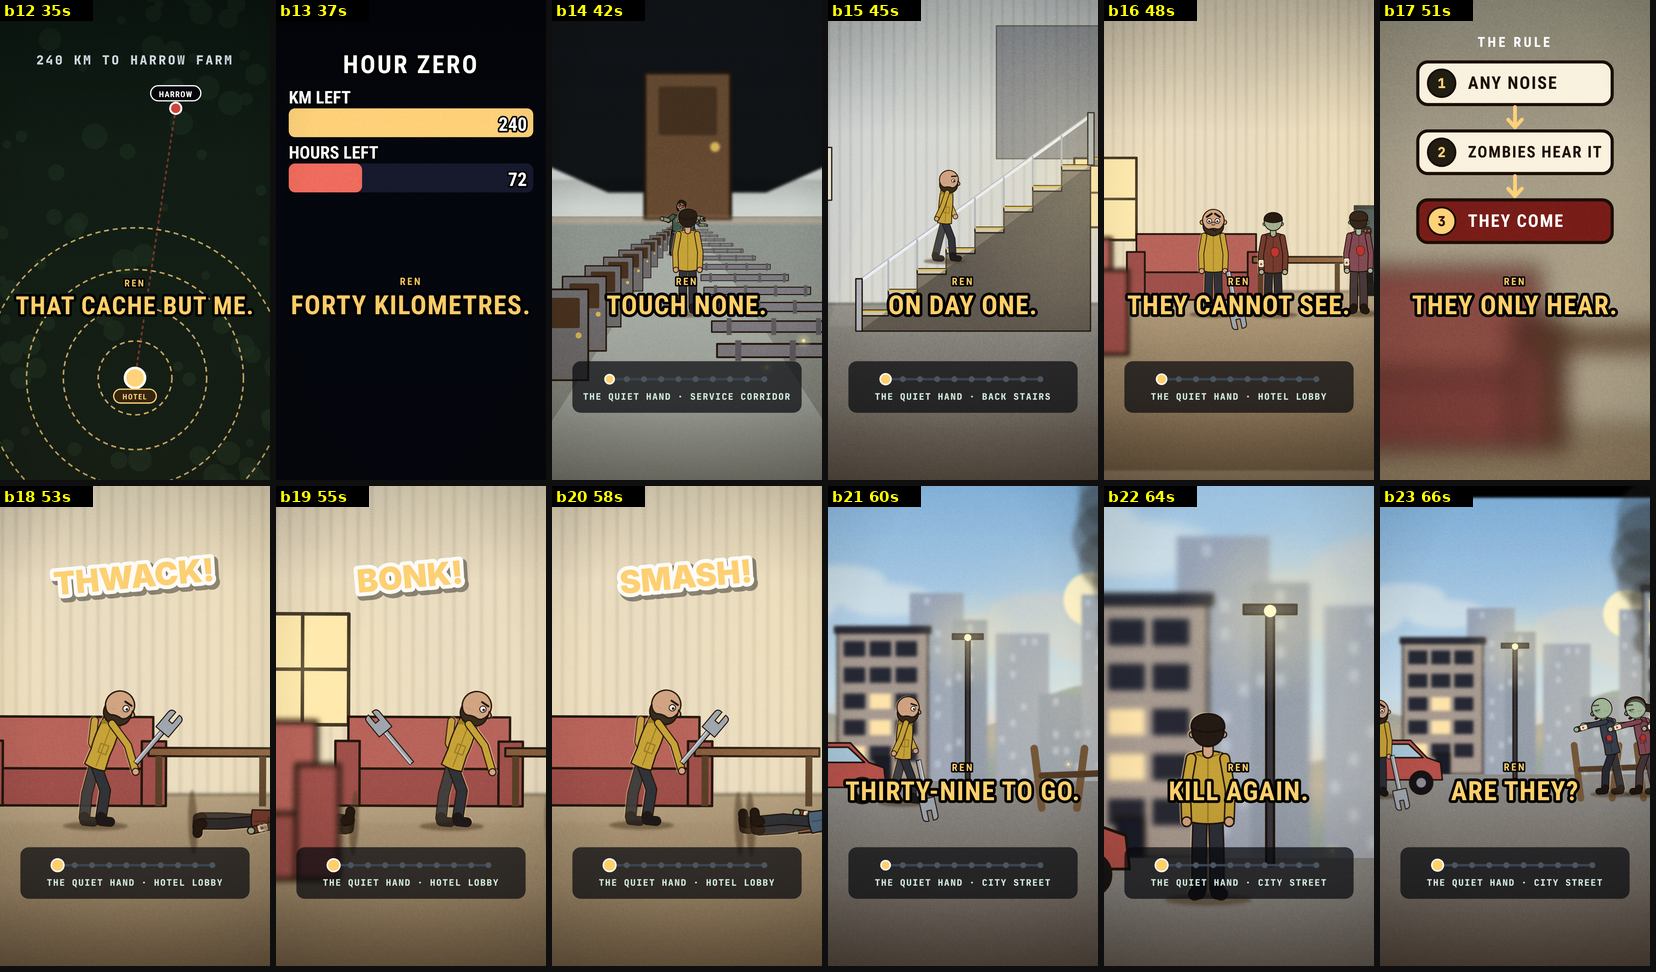
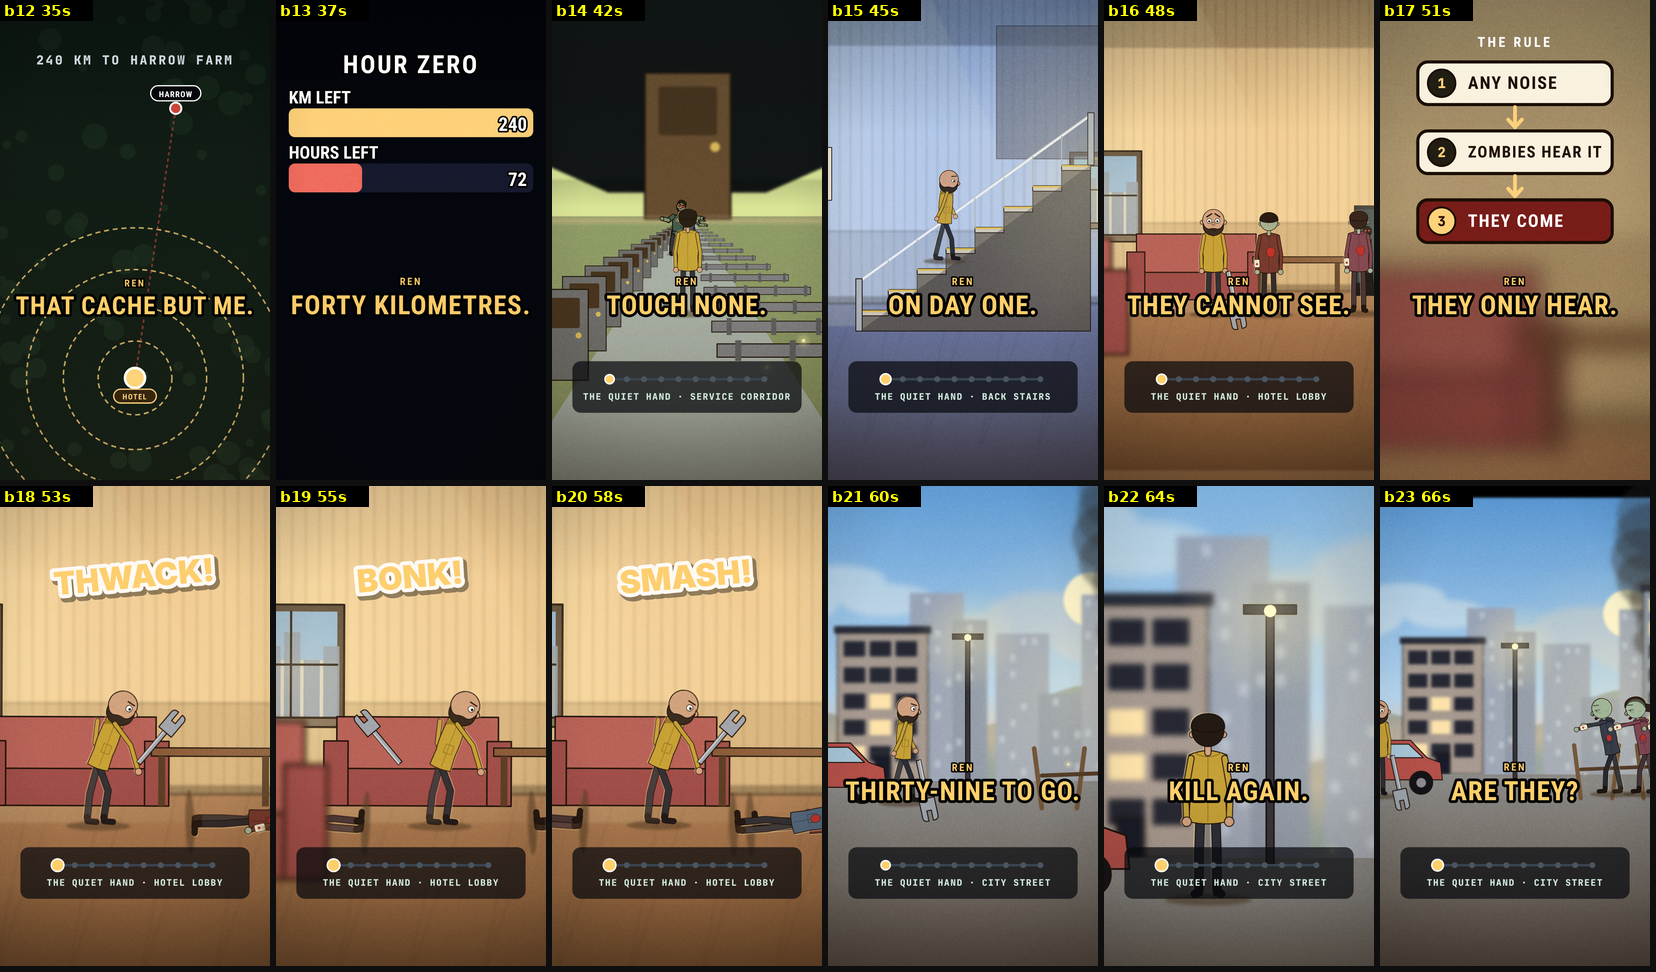
Ep1: fight + zombie sound design (swing, flesh/metal hit, zombie moans and pained groans, body fall), thinner line work, richer rooms, fight-sound audit

diff --git a/studio/long/world9.js b/studio/long/world9.js
@@ -21,7 +21,7 @@ const IT={
  car:(g,o)=>{const c=o.c||'#9a3a3a';P(g,'M-110,-30 L-100,-70 L-60,-76 L-34,-112 L50,-112 L84,-76 L112,-66 L116,-30Z',c,S());P(g,'M-28,-104 L-52,-76 L-10,-76 L-10,-104Z M2,-104 L2,-76 L76,-76 L46,-104Z','#9fc3d8',S({'stroke-width':2.4}));for(const x of[-68,72]){C(g,x,-24,24,'#1a1a20',S());C(g,x,-24,10,'#8a8a94')}},
  sign:(g,o)=>{R(g,-5,-150,10,150,'#4a3a2a');R(g,-60,-190,120,64,o.c||'#e8e2cf',S());const t=T(g,0,-148,o.label||'',26,INK,{'font-family':RCF,'font-weight':700});fitText(t,104)},
  door:(g,o)=>{R(g,-44,-150,88,150,o.c||'#6a4a30',S());R(g,-30,-136,60,50,'#4a3220',{rx:3});C(g,28,-74,5,'#d9b24a')},
- window:(g,o)=>{R(g,-40,-96,80,96,o.lit===false?'#1d2233':GL,S());L(g,0,-96,0,0,INK,3);L(g,-40,-48,40,-48,INK,3);if(o.lit!==false)C(g,0,-48,110,'url(#gLamp)',{opacity:.35})},
+ window:(g,o)=>{const lit=o.lit!==false,day=W.time==='day';R(g,-46,-104,92,104,'#5a4a3a',S());R(g,-40,-98,80,92,lit?(day?'#a8cfee':GL):'#1d2233');if(lit&&day){R(g,-40,-98,80,50,'#8fbbe0');R(g,-40,-56,80,50,'#e8d2b0',{opacity:.7});for(let i=0;i<5;i++)R(g,-40+i*17,-56-(i%3)*12,14,50+(i%3)*12,'#8d9db4',{opacity:.9});R(g,-40,-98,80,92,'url(#gWallShade)',{opacity:.12})}L(g,0,-98,0,-6,INK,3);L(g,-40,-52,40,-52,INK,3);R(g,-52,-6,104,8,'#7a6a58',S());if(lit)C(g,0,-48,o.glow||130,'url(#gLamp)',{opacity:day?.28:.35})},
  fence:(g,o)=>{const w=o.w||300;for(let x=0;x<=w;x+=50)R(g,x-w/2-4,-76,8,76,'#6a5438',S({'stroke-width':2}));L(g,-w/2,-58,w/2,-58,'#7a6244',6);L(g,-w/2,-30,w/2,-30,'#7a6244',6)},
  shelf:(g,o)=>{const w=o.w||200;R(g,-w/2,-220,w,220,'#5a4a38',S());for(let r=0;r<3;r++){L(g,-w/2,-150+r*-0,w/2,-150,'#3a2c1e',3);}L(g,-w/2,-146,w/2,-146,'#3a2c1e',5);L(g,-w/2,-74,w/2,-74,'#3a2c1e',5);for(let i=0;i<5;i++){R(g,-w/2+12+i*(w-24)/5,-146-30,(w-24)/5-6,30,['#c0504a','#4a7ab0','#d9b24a','#5a9a5a','#9a6ab0'][i%5],S({'stroke-width':1.8}));R(g,-w/2+12+i*(w-24)/5,-74-30,(w-24)/5-6,30,['#d9b24a','#c0504a','#5a9a5a','#4a7ab0','#9a6ab0'][i%5],S({'stroke-width':1.8}))}},
  table:(g,o)=>{const w=o.w||180;R(g,-w/2,-84,w,12,o.c||'#7a5a38',S());R(g,-w/2+10,-72,10,72,'#5a4028');R(g,w/2-20,-72,10,72,'#5a4028')},
@@ -71,7 +71,9 @@ const IT={
  barricade:(g,o)=>{const w=o.w||260;for(let i=0;i<5;i++){const a=(i%2?1:-1)*14;L(g,-w/2+i*w/4,0,-w/2+i*w/4+a,-110,'#7a5a38',14)}L(g,-w/2,-60,w/2,-70,'#5a4028',12)}
 };
 Object.keys(IT).forEach(k=>{if(!PROP[k])PROP[k]=(g,o)=>IT[k](g,o)});
-function item(g,it){const f=IT[it.t];if(!f)return;const q=G(g,{transform:`translate(${it.x||0} ${it.y==null?600:it.y}) scale(${(it.flip?-1:1)*(it.s||1)} ${it.s||1})`});f(q,it);return q}
+function thin(q){const k=W.line;if(!k)return q;q.querySelectorAll('[stroke-width]').forEach(e=>{const v=parseFloat(e.getAttribute('stroke-width'));if(v>0)e.setAttribute('stroke-width',(v*k).toFixed(2))});return q}
+window.__thin=thin;
+function item(g,it){const f=IT[it.t];if(!f)return;const q=G(g,{transform:`translate(${it.x||0} ${it.y==null?600:it.y}) scale(${(it.flip?-1:1)*(it.s||1)} ${it.s||1})`});f(q,it);return thin(q)}
 const P_=W.pal||{};
 function skyDraw(f,L){const sk=P_.sky||['#3d3a6e','#c2677a','#f1a477'];const id='gW_'+W.id;document.getElementById('defs').insertAdjacentHTML('beforeend',`<linearGradient id="${id}" x1="0" y1="0" x2="0" y2="1"><stop offset="0" stop-color="${sk[0]}"/><stop offset=".55" stop-color="${sk[1]}"/><stop offset="1" stop-color="${sk[2]}"/></linearGradient>`);
  R(f,-200,-100,1680,900,`url(#${id})`);if(W.time==='night'||W.time==='dusk'||W.stars)fStars(f,40,230);if(W.moon!==false&&W.time!=='day')fMoon(f,L.moonx||930,L.moony||130);
@@ -81,7 +83,8 @@ function lanePos(vpx,vpy,gy){return {x:(X,z)=>vpx+X/z,y:z=>vpy+(gy-vpy)/z}}
 LOC['w_'+W.id]=(Z,p)=>{FLK.length=0;const LC=(W.locs||{})[p.v||Object.keys(W.locs)[0]]||{};const f=G(Z.far),m=G(Z.mid),n=G(Z.near);const upd=[];const kind=LC.kind||'out';
  const layers=[G(f),G(m),G(n)];
  if(kind==='in'){R(f,-200,-700,1680,2400,LC.wall||P_.wall||'#3a3530');for(let i=0;i<64;i++)R(f,i*24-60,-700,2,2400,'rgba(0,0,0,.18)');R(f,-200,590,1680,900,LC.floor||P_.floor||'#2a2420');R(f,-200,590,1680,420,'url(#gGroundShade)',{opacity:.8});L(f,-200,590,1480,590,'rgba(0,0,0,.4)',4);
-  if(LC.light!==false)P(f,'M520,-100 L760,-100 L980,640 L300,640Z','url(#gCone)',{opacity:.12});R(f,-200,-100,1680,900,'url(#gWallShade)',{opacity:.8});A(f,{style:'filter:blur(2.4px)'})}
+  R(f,-200,430,1680,160,LC.wain||'rgba(0,0,0,.10)');L(f,-200,430,1480,430,'rgba(0,0,0,.22)',3);R(f,-200,574,1680,16,'rgba(0,0,0,.28)');for(let i=0;i<30;i++)L(f,-200+i*64-(i%2)*18,590,-200+i*64-60-(i%2)*60,900,'rgba(0,0,0,.10)',2);R(f,-200,-100,1680,120,'rgba(0,0,0,.22)');
+  if(LC.light!==false)P(f,LC.cone||'M200,-100 L520,-100 L860,640 L120,640Z','url(#gCone)',{opacity:W.time==='day'?.34:.12});R(f,-200,-100,1680,900,'url(#gWallShade)',{opacity:.8});A(f,{style:'filter:blur(2.4px)'})}
  else if(kind==='lane'){const LP=lanePos(640,LC.vpy||398,720),vpy=LC.vpy||398;if(LC.indoor){R(f,-200,-100,1680,900,LC.wall||P_.wall||'#2a2f38');P(f,`M-200,-100 L1480,-100 L1480,40 L${640+120},${vpy-40} L${640-120},${vpy-40} L-200,40Z`,'#14171d');R(f,-200,vpy-60,1680,120,'url(#gWallShade)',{opacity:.5});A(f,{style:'filter:blur(2px)'})}else{skyDraw(f,LC);P(f,'M-200,404 Q100,340 380,396 T800,376 T1200,398 T1500,384 L1500,420 L-200,420Z',P_.hills||'#2a2744');R(f,-200,360,1680,70,'url(#gHaze)');A(f,{style:'filter:blur(3px)'})}
   R(m,-200,vpy-2,1680,1300,LC.ground||P_.ground||'#33281a');R(m,-200,vpy-2,1680,900,'url(#gGroundShade)',{opacity:.7});
   if(LC.end)item(G(m,{style:'filter:blur(1.6px)'}),Object.assign({x:640,y:vpy+2,s:.3},LC.end));R(m,-200,vpy-6,1680,18,'url(#gHaze)',{opacity:.8});

diff --git a/studio/long/pax9.js b/studio/long/pax9.js
@@ -173,6 +173,7 @@ actor=function(g,o){
   if(o.tremble){x+=Math.sin(t*47+(o.ph||0))*o.tremble;y+=Math.cos(t*53)*o.tremble*.6}
   if(o.squash){const lt=bt-o.squash.at;if(lt>0&&lt<.25){const p=Math.sin(lt/.25*Math.PI);sy=1-.12*p;sx=1+.1*p}}
   if(o.snore){const br=Math.sin(t*2.2);sy*=1+.012*br;bob+=br*1.5}else{sy*=1+.010*Math.sin(t*2.3+(o.ph||0))}   // breathing
+  if(!root.__th&&window.__thin){root.__th=1;if(window.SPEC&&SPEC.world&&SPEC.world.line)window.__thin(root)}
   A(root,{transform:`translate(${x} ${y+bob}) rotate(${rot}) scale(${base.s*base.fl*base.sx*sx} ${base.s*sy})`});
   const talk=o.talk===true?who:o.talk;const m=talk?mouth(talk):(o.mouth||0);hds.forEach(h=>{if(h&&h._mouth)h._mouth(m);if(h&&h._blink)h._blink(t,(o.ph||0)*3.1)})},root,A1,A2}};
 

diff --git a/studio/long/foley_sfx.py b/studio/long/foley_sfx.py
@@ -66,12 +66,44 @@ def sofa_fall():
 def hit():
     d=.25;t=tt(d);x=fft_filter(noise(d),200,2500)*np.exp(-t/.035)*.8+sweep(140,60,d)*np.exp(-t/.05)*.7
     return fade(x,.0005,.04)
+
+# ---- fights and zombies (owner: "no zombie sounds, no hit sounds, no sound when a zombie is hit") ----
+def swing():                                # air whoosh of a weapon swing (rises, then dies)
+    d=.34;t=tt(d);e=np.sin(np.pi*np.clip(t/d,0,1))**2
+    x=fft_filter(noise(d),500,3600)*e*.55+fft_filter(noise(d),200,900)*e*.25
+    return fade(x,.01,.08)
+def punch_hit():                            # fist / elbow on a body: dull thump + skin crack + a short breath out
+    d=.32;t=tt(d);r=_rs(31)
+    x=sweep(135,48,d)*np.exp(-t/.07)*1.0+fft_filter(_n(d,r),150,1900)*np.exp(-t/.022)*.9+fft_filter(_n(d,r),1200,4500)*np.exp(-t/.008)*.45
+    return fade(x*.95,.0005,.06)
+def wrench_hit():                           # steel on skull: thump + metallic clank
+    d=.55;t=tt(d);r=_rs(32)
+    x=sweep(150,52,d)*np.exp(-t/.06)*.9+fft_filter(_n(d,r),200,3000)*np.exp(-t/.02)*.8
+    for f,a,k in((880,.35,.14),(1370,.28,.1),(2210,.2,.07),(3300,.12,.05)):x=x+sine(f,d)*np.exp(-t/k)*a
+    return fade(x*.9,.0005,.1)
+def body_fall():                            # a body hitting the floor: heavy thump, cloth, a second small bounce
+    d=.7;t=tt(d);r=_rs(33)
+    x=sweep(95,38,d)*np.exp(-t/.11)*1.0+fft_filter(_n(d,r),80,700)*np.exp(-t/.16)*.55+fft_filter(_n(d,r),500,2400)*np.exp(-t/.04)*.25
+    t2=np.clip(t-.24,0,None);x=x+(sweep(80,40,d)*np.exp(-t2/.06)*.45)*(t>.24)
+    return fade(x*.95,.0005,.2)
+def zvoice(seed,d=1.3,f0=118,glide=-30,hurt=False):
+    """zombie voice: glottal saw source with slow vibrato and a falling pitch, shaped by two vowel formants (aah / uuh), breath noise.  hurt=True: shorter, higher, a pained 'ughh'."""
+    r=_rs(seed);t=tt(d);n=len(t);fm=f0*(1.35 if hurt else 1.0)
+    f=fm+glide*t/d*(2.2 if hurt else 1.0)+3.5*np.sin(2*np.pi*(4.6+r.rand())*t)+2*np.sin(2*np.pi*(9+r.rand()*2)*t)
+    ph=np.cumsum(f)/SR*2*np.pi;src=sum(np.sin(h*ph)/h**1.1 for h in range(1,26))
+    f1,f2=(720,1180) if hurt else (520,980);x=fft_filter(src,f1-180,f1+180)*1.0+fft_filter(src,f2-260,f2+260)*.55+fft_filter(src,90,320)*.5
+    x=x+fft_filter(noise(d),700,3000)*.1*(0.6+0.4*np.sin(2*np.pi*3*t))
+    e=np.minimum(1,t/(.04 if hurt else .25))*np.minimum(1,(d-t)/(.12 if hurt else .35))*(0.75+0.25*np.sin(2*np.pi*(2.1+r.rand()*.8)*t+r.rand()*6))
+    return fade(x*e*.8,.01,.1)
 def register():
     for surf in('tile','stair','gravel','wood'):
         for v,seed in zip('abc',(1,2,3)):
             A.SFX[f'step_{surf}_{v}']=(lambda s=surf,sd=seed:step(s,sd));A.GAIN[f'step_{surf}_{v}']=.55
             A.SFX[f'run_{surf}_{v}']=(lambda s=surf,sd=seed+10:step(s,sd,True));A.GAIN[f'run_{surf}_{v}']=.65
     for v,seed in zip('abc',(4,5,6)):A.SFX[f'shuffle_{v}']=(lambda sd=seed:shuffle(sd));A.GAIN[f'shuffle_{v}']=.5
+    for k,f,g in(('swing',swing,.7),('punch_hit',punch_hit,1.0),('wrench_hit',wrench_hit,1.0),('body_fall',body_fall,.95)):A.SFX[k]=(lambda f=f:(lambda x:x/max(1.0,float(np.abs(x).max()))*.95)(f()));A.GAIN[k]=g
+    for v,sd,f0,d in zip('abc',(41,42,43),(112,126,98),(1.5,1.2,1.7)):A.SFX['zmoan_'+v]=(lambda sd=sd,f0=f0,d=d:zvoice(sd,d,f0,-28));A.GAIN['zmoan_'+v]=.75
+    for v,sd,f0 in zip('abc',(51,52,53),(128,142,118)):A.SFX['zhurt_'+v]=(lambda sd=sd,f0=f0:zvoice(sd,.55,f0,-34,True));A.GAIN['zhurt_'+v]=.95
     for k,f,g in(('grunt',grunt,.7),('scrape',scrape,.6),('keys',keys,.55),('clang',clang,.6),('rattle',rattle,.5),('squawk',squawk,.7),('paper',paper,.6),('glass_thump',glass_thump,.8),('flash_ting',flash_ting,.5),('lock_chain',lock_chain,.65),('elev_door',elev_door,.6),('thud_wood',thud_wood,.9),('sofa_fall',sofa_fall,.6),('hit',hit,.8)):
         A.SFX[k]=f;A.GAIN[k]=g
 register()

diff --git a/studio/long/foley.py b/studio/long/foley.py
@@ -61,6 +61,22 @@ def main():
                 for st in a['seq'][1:]:add('rustle',t0+float(st.get('at',0)),pan(a['x'],v),.5)
             if a.get('pose')=='reach' and a.get('view')=='side' and any(f.get('k')=='sticker' and 'PUSH' in str(f.get('txt','')) for f in b.get('fx',[])):
                 add('grunt',t0+.1+rnd.random()*.3,pan(a['x'],v),.6)
+        # fights: whoosh before the swing, hit at the impact (by weapon), the zombie's pained groan, the fall and the thump on the floor
+        for a in p.get('acts',[]):
+            sq=a.get('seq') or []
+            if any(str(st.get('pose'))=='windup' for st in sq):
+                w=[float(st['at']) for st in sq if st.get('pose')=='punch'];wt=w[0] if w else .5;pn=pan(a['x'],v)
+                wp=[q for q in props if q.get('keys')];kind='wrench_hit' if any(q.get('t')=='wrench' for q in wp) else 'punch_hit'
+                add('swing',t0+max(0,wt-.14),pn,.9);add(kind,t0+wt+.12,pn,1.0)
+        for a in p.get('acts',[]):
+            fl=a.get('fall')
+            if str(a.get('k')).startswith('z_') and fl and fl.get('dur',0)>.05:
+                at=float(fl['at']);pn=pan(a['x'],v);add('zhurt_'+'abc'[int(a['x'])%3],t0+at+.04,pn,1.0);add('body_fall',t0+at+.36,pn,1.0)
+        zs=[a for a in p.get('acts',[]) if str(a.get('k')).startswith('z_') and not a.get('fall') and a.get('pose')!='stand' or (str(a.get('k')).startswith('z_') and a.get('view')=='back' and not a.get('fall'))]
+        for i,a in enumerate(zs[:3]):
+            add('zmoan_'+'abc'[(i+int(t0))%3],t0+.2+i*.55,pan(a['x'],v),.8)
+            if a.get('to'):
+                for j in range(max(2,int(D/.8))):add('shuffle_'+'abc'[j%3],t0+.2+j*.8,pan(a['x'],v),.7)
         for pr in props:
             if pr.get('to') and pr.get('t')=='sofa':add('sofa_fall',t0+.05,0,.9);add('thud_wood',t0+max(.4,D*.55),0,1.0)
             if pr.get('t')=='heli':

diff --git a/studio/departments/audit_sound.py b/studio/departments/audit_sound.py
@@ -54,6 +54,14 @@ def audit(cid):
         if e['dur']>4 and not 115<=e['wpm']<=170:issues.append(f'{k}: {e["wpm"]:.0f} wpm (115-170)');score-=4
     if 'ann' in spk and spk['ann']['dur']/tot>.25:issues.append(f'announcer is {spk["ann"]["dur"]/tot:.0%} of the speech (<= 25 %)');score-=6
 
+    # ---- fights must be heard: swing, hit, the zombie's groan and the body hitting the floor
+    try:
+        spb=S_['beats'] if 'S_' in dir() else json.load(open(f'{d}/spec.json'))['beats']
+        evs=json.load(open(f'{d}/sfx.json'));fights=[b for b in spb if b['scene']['n']=='stage' and any(f.get('k')=='sticker' and any(h in str(f.get('txt','')).upper() for h in('WHACK','BONK','SMASH','THWACK','CLANG','SHOVE')) for f in b.get('fx',[]))]
+        bad=[i for i,b in enumerate(fights) if not (any(b['t'][0]<=e['t']<=b['t'][1] and e['k'] in('punch_hit','wrench_hit') for e in evs) and any(b['t'][0]<=e['t']<=b['t'][1] and str(e['k']).startswith('zhurt') for e in evs) and any(b['t'][0]<=e['t']<=b['t'][1] and e['k']=='body_fall' for e in evs))]
+        M['fight_sound']=dict(fights=len(fights),missing=bad)
+        if bad:issues.append(f'SOUND: {len(bad)} fight beat(s) lack a hit sound, the zombie groan or the body-fall thump');score-=8*len(bad)
+    except Exception as e:M['fight_sound']='n/a '+type(e).__name__
     # ---- score + foley (the studio's music and effects follow the picture)
     try:
         import wave

diff --git a/studio/departments/BACKLOG.md b/studio/departments/BACKLOG.md
@@ -1,25 +1,24 @@
 # Studio backlog (generated by improve.py, do not edit by hand)
 
-Updated 2026-10-30 12:15 UTC from 4 reviewed clips. Work from the top; fix the CAUSE in the toolchain, then re-review.
+Updated 2026-10-30 12:33 UTC from 4 reviewed clips. Work from the top; fix the CAUSE in the toolchain, then re-review.
 
 | # | dept | seen in | issue |
 |---:|---|---:|---|
-| 1 | art | 2 | LAYOUT: 11 person(s) cut by the frame edge, e.g. [(8, 'z_cook', 469), (9, 'z_hoodie', -55), (10, 'z_cook', 434), (10, 'z_hoodie', -49)]: reframe or move them inside x 40-410 |
+| 1 | art | 2 | LAYOUT: 6 person(s) cut by the frame edge, e.g. [(16, 'z_hoodie', 494), (18, 'z_dress', 478), (18, 'z_hoodie', 579), (19, 'z_hoodie', 685)]: reframe or move them inside x 40-410 |
 | 2 | editorial | 3 | EDITORIAL: 5 caption(s) on screen < 0.6 s [('IF YOU HEAR', 0.51), ('TWO.', 0.58), ('THREE.', 0.56)] |
-| 3 | direction | 2 | DIRECTION: more than 3 shots of the same size in a row (beats [9, 18, 19, 20, 21]): vary wide / medium / close |
-| 4 | direction | 2 | DIRECTION: the same picture (place + size) holds for 10.4 s (> 6.5 s): cut, move the camera or change the subject |
-| 5 | qc | 2 | QC: total bitrate 4.2 Mbps (3-14) |
-| 6 | editorial | 2 | EDITORIAL: 1 caption chunk(s) stop on a dangling word, e.g. ['SCREAMING ABOVE YOU,']: break captions at phrase boundaries |
-| 7 | editorial | 2 | EDITORIAL: 6 caption(s) read faster than 17 characters/s [('IF YOU HEAR', 21.4), ('SCREAMING ABOVE YOU,', 19.5), ("DON'T GO UP.", 17.5)] |
-| 8 | art | 1 | ART: two locations have almost the same colour world (distance 4 < 14): give each place its own colour key |
+| 3 | art | 2 | ART: two locations have almost the same colour world (distance 10 < 14): give each place its own colour key |
+| 4 | direction | 2 | DIRECTION: more than 3 shots of the same size in a row (beats [9, 18, 19, 20, 21]): vary wide / medium / close |
+| 5 | direction | 2 | DIRECTION: the same picture (place + size) holds for 10.4 s (> 6.5 s): cut, move the camera or change the subject |
+| 6 | qc | 2 | QC: total bitrate 4.5 Mbps (3-14) |
+| 7 | editorial | 2 | EDITORIAL: 1 caption chunk(s) stop on a dangling word, e.g. ['SCREAMING ABOVE YOU,']: break captions at phrase boundaries |
+| 8 | editorial | 2 | EDITORIAL: 6 caption(s) read faster than 17 characters/s [('IF YOU HEAR', 21.4), ('SCREAMING ABOVE YOU,', 19.5), ("DON'T GO UP.", 17.5)] |
 | 9 | story | 1 | STORY/storylint(warn): a 2.5D lane location is used |
-| 10 | art | 1 | ART: palette is murky (mean saturation 0.19 < 0.20): add colour accents per location |
-| 11 | sound | 1 | voices omar and ann sound alike (f0 158 vs 173 Hz): recast or pitch-shift one |
-| 12 | sound | 1 | voices ann and lin sound alike (f0 173 vs 191 Hz): recast or pitch-shift one |
-| 13 | sound | 1 | bell: during speech the bed (music+sfx) is -6.0 dB relative to the voice (must be <= -6): the voice is not on top |
-| 14 | sound | 1 | bell: 112 wpm (115-170) |
-| 15 | sound | 1 | voices ann and omar sound alike (f0 144 vs 142 Hz): recast or pitch-shift one |
-| 16 | sound | 1 | pip: during speech the bed (music+sfx) is -3.9 dB relative to the voice (must be <= -6): the voice is not on top |
-| 17 | editorial | 1 | EDITORIAL: scene beat 14 lasts 7.3 s (> 6.5 s) |
-| 18 | sound | 1 | dead air 1.9 s between lines |
-| 19 | writing | 1 | WRITING: ren talks 3 lines in a row: break it with a reaction or action |
+| 10 | sound | 1 | voices omar and ann sound alike (f0 158 vs 173 Hz): recast or pitch-shift one |
+| 11 | sound | 1 | voices ann and lin sound alike (f0 173 vs 191 Hz): recast or pitch-shift one |
+| 12 | sound | 1 | bell: during speech the bed (music+sfx) is -6.0 dB relative to the voice (must be <= -6): the voice is not on top |
+| 13 | sound | 1 | bell: 112 wpm (115-170) |
+| 14 | sound | 1 | voices ann and omar sound alike (f0 144 vs 142 Hz): recast or pitch-shift one |
+| 15 | sound | 1 | pip: during speech the bed (music+sfx) is -3.9 dB relative to the voice (must be <= -6): the voice is not on top |
+| 16 | editorial | 1 | EDITORIAL: scene beat 14 lasts 7.3 s (> 6.5 s) |
+| 17 | sound | 1 | dead air 1.9 s between lines |
+| 18 | writing | 1 | WRITING: ren talks 3 lines in a row: break it with a reaction or action |

diff --git a/studio/departments/scorecards/quiet_01.md b/studio/departments/scorecards/quiet_01.md
@@ -1,9 +1,9 @@
-# Scorecard quiet_01  (2026-10-30 12:15 UTC)
+# Scorecard quiet_01  (2026-10-30 12:33 UTC)
 
 | department | score | bar | verdict |
 |---|---:|---:|---|
 | story | 97 | 70 | PASS |
-| art | 77 | 70 | PASS |
+| art | 79 | 70 | PASS |
 | sound | 96 | 60 | PASS |
 | editorial | 80 | 70 | PASS |
 | marketing | 100 | 75 | PASS |
@@ -16,8 +16,8 @@
 * STORY/storylint(warn): a 2.5D lane location is used
 
 ## art
-* ART: palette is murky (mean saturation 0.19 < 0.20): add colour accents per location
-* LAYOUT: 11 person(s) cut by the frame edge, e.g. [(8, 'z_cook', 469), (9, 'z_hoodie', -55), (10, 'z_cook', 434), (10, 'z_hoodie', -49)]: reframe or move them inside x 40-410
+* ART: two locations have almost the same colour world (distance 10 < 14): give each place its own colour key
+* LAYOUT: 6 person(s) cut by the frame edge, e.g. [(16, 'z_hoodie', 494), (18, 'z_dress', 478), (18, 'z_hoodie', 579), (19, 'z_hoodie', 685)]: reframe or move them inside x 40-410
 
 ## sound
 * dead air 1.9 s between lines
@@ -35,4 +35,4 @@
 * WRITING: ren talks 3 lines in a row: break it with a reaction or action
 
 ## qc
-* QC: total bitrate 4.2 Mbps (3-14)
+* QC: total bitrate 4.5 Mbps (3-14)
